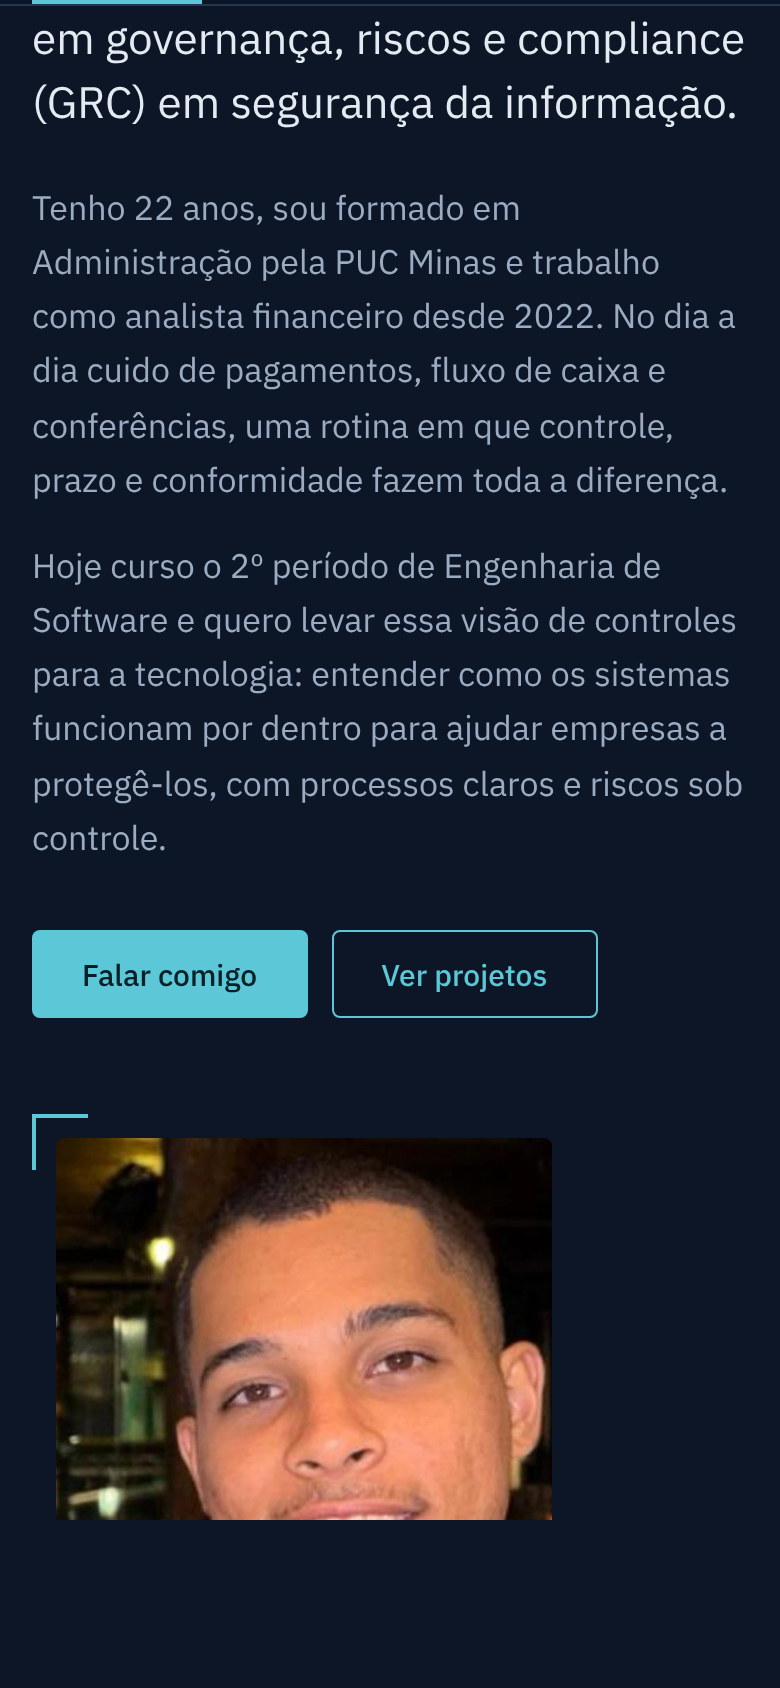
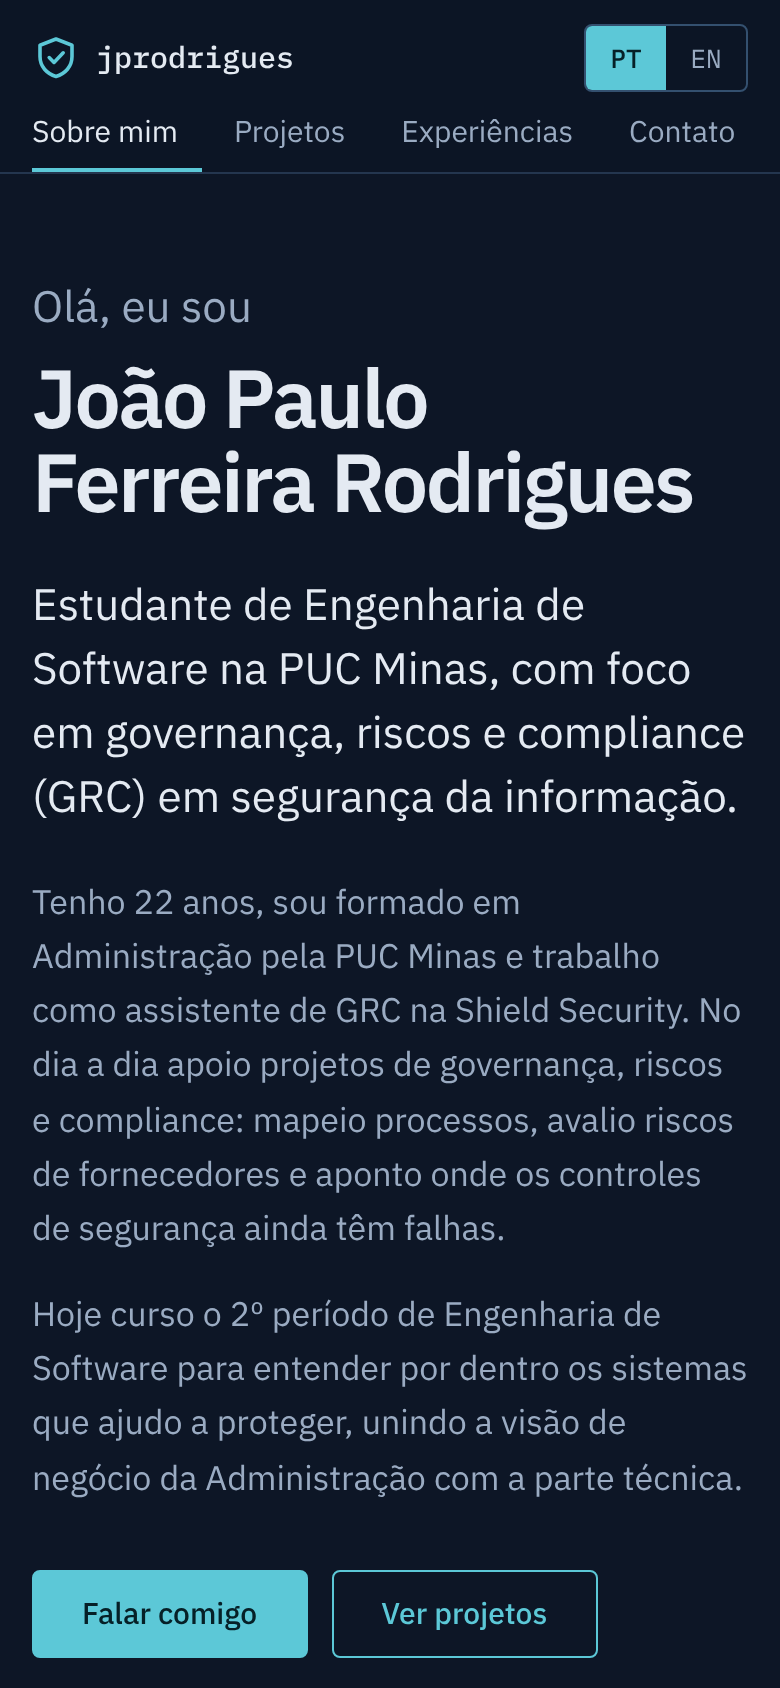
fix: experiência atual como Assistente de GRC na Shield Security

diff --git a/frontend/src/i18n.js b/frontend/src/i18n.js
@@ -20,19 +20,19 @@ const resources = {
         greeting: "Olá, eu sou",
         lead: "Estudante de Engenharia de Software na PUC Minas, com foco em governança, riscos e compliance (GRC) em segurança da informação.",
         bio: [
-          "Tenho 22 anos, sou formado em Administração pela PUC Minas e trabalho como analista financeiro desde 2022. No dia a dia cuido de pagamentos, fluxo de caixa e conferências, uma rotina em que controle, prazo e conformidade fazem toda a diferença.",
-          "Hoje curso o 2º período de Engenharia de Software e quero levar essa visão de controles para a tecnologia: entender como os sistemas funcionam por dentro para ajudar empresas a protegê-los, com processos claros e riscos sob controle.",
+          "Tenho 22 anos, sou formado em Administração pela PUC Minas e trabalho como assistente de GRC na Shield Security. No dia a dia apoio projetos de governança, riscos e compliance: mapeio processos, avalio riscos de fornecedores e aponto onde os controles de segurança ainda têm falhas.",
+          "Hoje curso o 2º período de Engenharia de Software para entender por dentro os sistemas que ajudo a proteger, unindo a visão de negócio da Administração com a parte técnica.",
         ],
         logTitle: "Trajetória",
         log: [
           { status: "ok", label: "concluído", text: "Bacharelado em Administração, PUC Minas" },
-          { status: "run", label: "atual", text: "Analista financeiro, Montante Engenharia (desde 2022)" },
+          { status: "run", label: "atual", text: "Assistente de GRC, Shield Security" },
           { status: "run", label: "em curso", text: "Engenharia de Software, PUC Minas (2º período)" },
           { status: "goal", label: "foco", text: "GRC em segurança da informação" },
         ],
         stackTitle: "Tecnologias que uso",
         otherTitle: "Outras competências",
-        other: ["Inglês avançado", "Excel avançado", "ERP Omie"],
+        other: ["Inglês avançado", "Excel avançado", "Mapeamento de processos"],
         photoAlt: "Foto de João Paulo Ferreira Rodrigues",
         cta: "Falar comigo",
         ctaProjects: "Ver projetos",
@@ -99,19 +99,19 @@ const resources = {
         greeting: "Hi, I'm",
         lead: "Software Engineering student at PUC Minas, focused on governance, risk and compliance (GRC) in information security.",
         bio: [
-          "I'm 22, hold a bachelor's degree in Business Administration from PUC Minas and have worked as a financial analyst since 2022. My day-to-day covers payments, cash flow and reconciliations, a routine where control, deadlines and compliance make all the difference.",
-          "I'm now in my second semester of Software Engineering and want to bring that control mindset into technology: understanding how systems work from the inside to help companies protect them, with clear processes and risks under control.",
+          "I'm 22, hold a bachelor's degree in Business Administration from PUC Minas and work as a GRC assistant at Shield Security. My day-to-day supports governance, risk and compliance projects: I map processes, assess supplier risk and point out where security controls still have gaps.",
+          "I'm now in my second semester of Software Engineering to understand from the inside the systems I help protect, bringing together the business view from Administration and the technical side.",
         ],
         logTitle: "Path",
         log: [
           { status: "ok", label: "done", text: "B.A. in Business Administration, PUC Minas" },
-          { status: "run", label: "current", text: "Financial analyst, Montante Engenharia (since 2022)" },
+          { status: "run", label: "current", text: "GRC assistant, Shield Security" },
           { status: "run", label: "ongoing", text: "Software Engineering, PUC Minas (2nd semester)" },
           { status: "goal", label: "focus", text: "GRC in information security" },
         ],
         stackTitle: "Technologies I use",
         otherTitle: "Other skills",
-        other: ["Advanced English", "Advanced Excel", "Omie ERP"],
+        other: ["Advanced English", "Advanced Excel", "Process mapping"],
         photoAlt: "Photo of João Paulo Ferreira Rodrigues",
         cta: "Get in touch",
         ctaProjects: "See projects",

diff --git a/frontend/src/data/experiences.js b/frontend/src/data/experiences.js
@@ -2,22 +2,22 @@
 // Ordem: da mais recente para a mais antiga.
 export const experiences = [
   {
-    id: "montante",
-    org: "Montante Engenharia e Serviços",
-    url: null,
+    id: "shield-security",
+    org: "Shield Security",
+    url: null, // TODO: site da empresa (opcional)
     role: {
-      pt: "Analista financeiro",
-      en: "Financial analyst",
+      pt: "Assistente de GRC",
+      en: "GRC Assistant",
     },
-    start: { pt: "dez. 2022", en: "Dec 2022" },
+    start: { pt: "2026", en: "2026" }, // TODO: mês e ano de início
     current: true,
     description: {
-      pt: "Empresa de engenharia especializada em recuperação de áreas degradadas. Cuido do processamento e da conferência de pagamentos, salários e boletos, do controle diário do fluxo de caixa e de relatórios gerenciais em Excel. Faço lançamentos e conciliações no ERP Omie e opero os sistemas bancários da empresa.",
-      en: "Engineering company specialized in recovering degraded land. I process and verify payments, payroll and invoices, track daily cash flow and build management reports in Excel. I handle entries and reconciliations in the Omie ERP and operate the company's banking systems.",
+      pt: "Apoio em projetos de governança, riscos e compliance em segurança da informação: mapeamento de processos em BPMN e SIPOC, gestão de riscos de terceiros (TPRM) para fornecedores de tecnologia e análise de gaps nos controles de segurança de clientes, com a classificação dos riscos encontrados.",
+      en: "Support on governance, risk and compliance projects in information security: process mapping with BPMN and SIPOC, third-party risk management (TPRM) for technology suppliers and gap analysis of clients' security controls, including rating the risks found.",
     },
     skills: {
-      pt: ["Excel avançado", "ERP Omie", "Fluxo de caixa", "Conciliação bancária"],
-      en: ["Advanced Excel", "Omie ERP", "Cash flow", "Bank reconciliation"],
+      pt: ["Mapeamento de processos (BPMN)", "SIPOC", "Riscos de terceiros (TPRM)", "Análise de gaps"],
+      en: ["Process mapping (BPMN)", "SIPOC", "Third-party risk (TPRM)", "Gap analysis"],
     },
   },
 ];

diff --git a/README.md b/README.md
@@ -56,7 +56,7 @@ Este site foi desenvolvido no **Laboratório 01** da disciplina **Desenvolviment
 
 **Por que existe:** reunir em um só endereço quem eu sou, o que já construí e como falar comigo, em vez de espalhar essas informações entre GitHub, LinkedIn e currículo.
 
-**Qual problema resolve:** recrutadores, professores e colegas entendem minha trajetória (de Administração e da área financeira para Engenharia de Software, com foco em GRC) em poucos minutos, veem os projetos funcionando e entram em contato sem sair da página.
+**Qual problema resolve:** recrutadores, professores e colegas entendem minha trajetória (de Administração para GRC e Engenharia de Software) em poucos minutos, veem os projetos funcionando e entram em contato sem sair da página.
 
 **Identidade visual:** azul-tinta escuro com acento ciano e a família tipográfica IBM Plex (Sans para textos, Mono para dados), uma linguagem próxima de painéis de monitoramento e relatórios de auditoria. A trajetória aparece como um pequeno registro de status (`[concluído]`, `[atual]`, `[em curso]`, `[foco]`), em referência aos logs que fazem parte do dia a dia de segurança.
 
